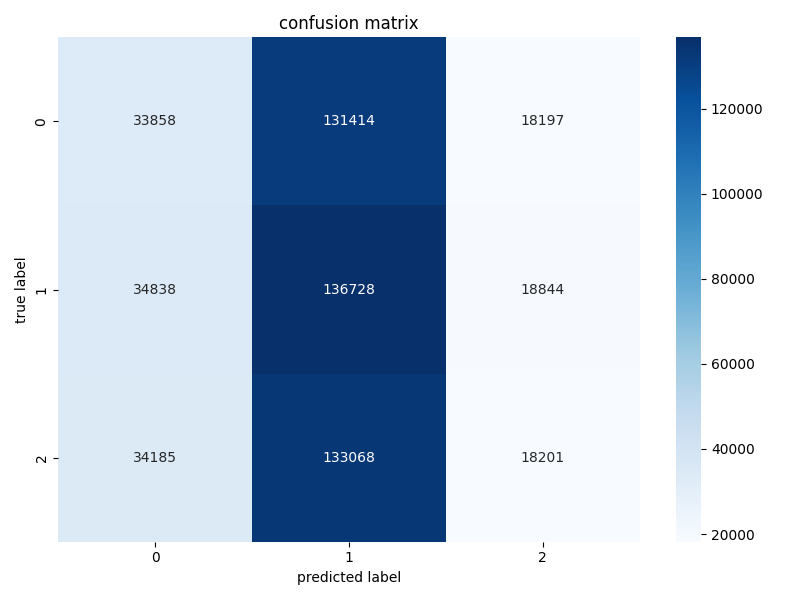
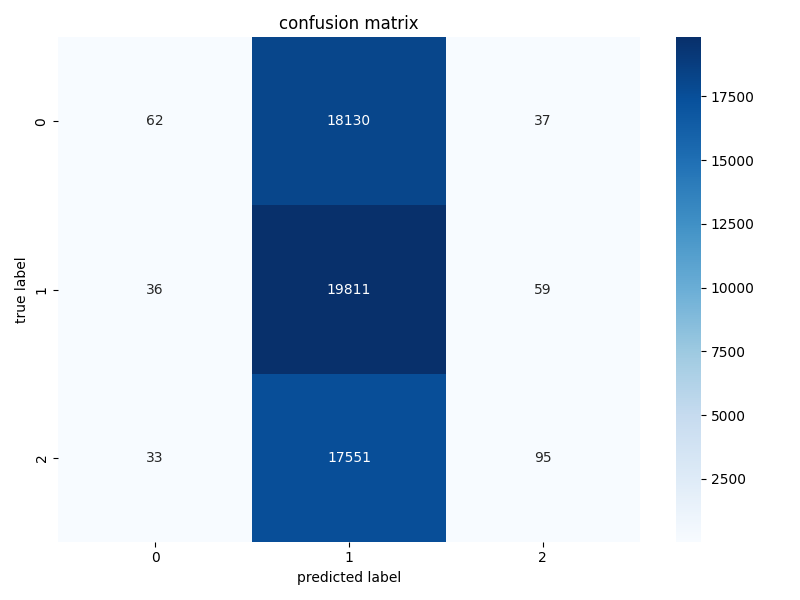
完善了回测框架

diff --git a/backtest/test.py b/backtest/test.py
@@ -4,12 +4,17 @@ from sklearn.metrics import confusion_matrix, classification_report
 import matplotlib.pyplot as plt
 import seaborn as sns
 
-def describe(filename="infer_result/example.csv"):
+def process_data(filename="infer_result/example.csv",use_threshold = True,long_threshold = 0.5, short_threshold = 0.5):
     # Read the CSV file
     df = pd.read_csv(filename)
     
-    # 对pred0, pred1, pred2三列进行统计性描述
+    # 先进行softmax操作
     pred_columns = ['pred0', 'pred1', 'pred2']
+    df['total_exp'] = np.exp(df[pred_columns]).sum(axis=1)
+    for col in pred_columns:
+        df[col] = np.exp(df[col]) / df['total_exp']
+    
+    # 对pred0, pred1, pred2三列进行统计性描述
     stats_description = df[pred_columns].describe()
     print("预测列的统计描述:")
     print(stats_description)
@@ -21,14 +26,12 @@ def describe(filename="infer_result/example.csv"):
     df['predicted_label'] = df['predicted_label'].str.replace('pred', '').astype(int)
     
     # 应用阈值规则 - 使用向量化操作
-    mask_0 = (df['predicted_label'] == 0) & (df['pred0'] > 0.1)
-    mask_2 = (df['predicted_label'] == 2) & (df['pred2'] > 0.1)
-    mask_default = ~(mask_0 | mask_2)
-
-    # 应用条件
-    df.loc[mask_default, 'predicted_label'] = 1
+    if use_threshold:
+        mask_0 = (df['predicted_label'] == 0) & (df['pred0'] > short_threshold)
+        mask_2 = (df['predicted_label'] == 2) & (df['pred2'] > long_threshold)
+        mask_default = ~(mask_0 | mask_2)
+        df.loc[mask_default, 'predicted_label'] = 1
     
-    print(f"已创建预测标签")
     return df
 
     
@@ -72,11 +75,13 @@ def calculate_10min_returns(relative_returns, initial_price=7000):
 
 if __name__ == "__main__":
     # 调用测试函数
-    df = describe()
+    df = process_data(use_threshold=True, long_threshold=0.53, short_threshold=0.5)
     return_df = calculate_10min_returns(df['close'])
     
     true_labels = df['label'].values
     predicted_labels = df['predicted_label'].values
+    
+    print("整体准确率:", np.mean(true_labels == predicted_labels))
     
     # 计算混淆矩阵
     cm = confusion_matrix(true_labels, predicted_labels)

diff --git a/data_process/feature_1.py b/data_process/feature_1.py
@@ -146,7 +146,7 @@ if __name__ == "__main__":
     top_features = correlation_results['Feature'].head(20).tolist()
     
     # 构建包含前20个高相关性因子和标签的数据框
-    training_data = feature_df[['open','close','high','low','volume','label'] + top_features]
+    training_data = feature_df[['trade_time','open','close','high','low','volume','label'] + top_features]
     
     # 保存用于训练的数据
     training_data.to_csv('data/BTCUSDT-feture-label.csv', index=False)
